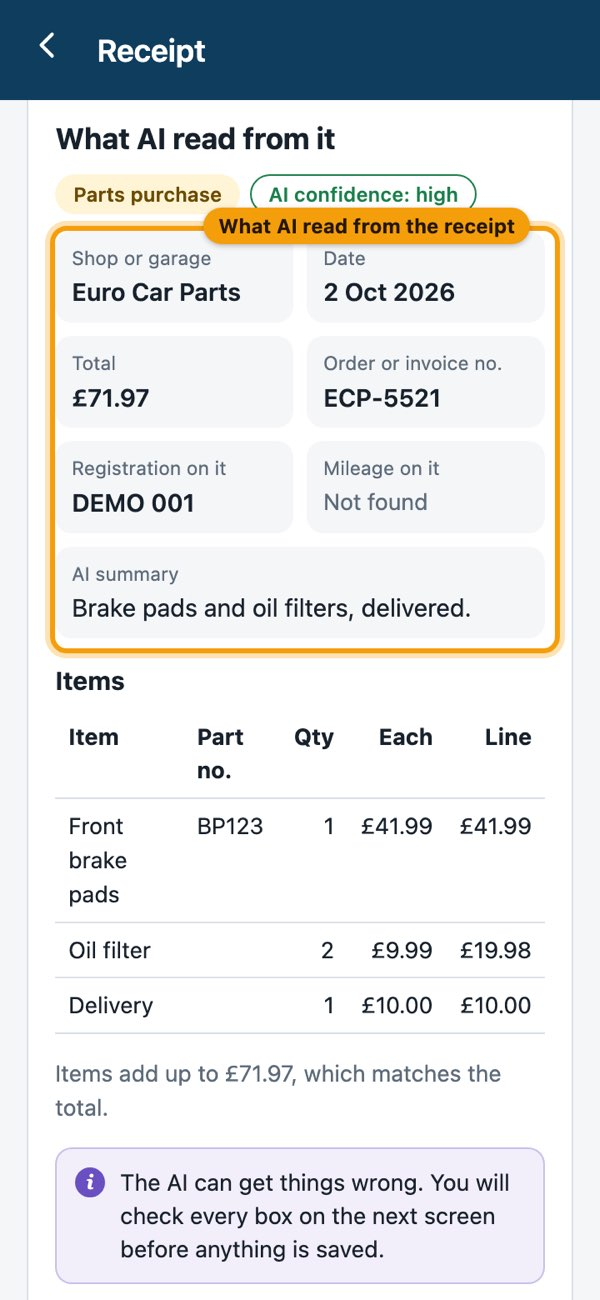
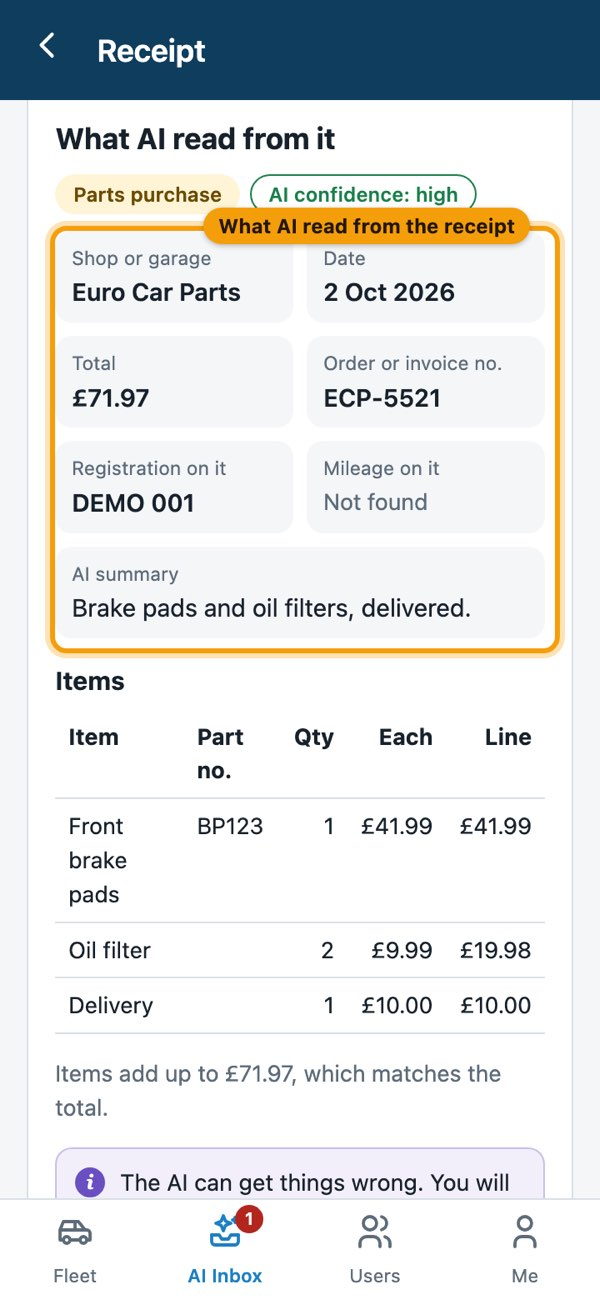
Add car matches Edit car: the same owners/custodians list, and the log book can be read from the AI box on both

Changed region(s): [[0.18, 0.9231, 0.93, 1.0], [0.09, 0.9231, 0.18, 1.0]]

diff --git a/web/views-cars.js b/web/views-cars.js
@@ -635,16 +635,17 @@
 
   // ---------- owner/custodian editor (one part of the car form) ----------
   // Admins tick any approved user. Everyone else can only tick or untick themselves.
-  function ownersEditor(people, users) {
+  // `tickMe`: a new car that is yours to start with (nothing is saved for it yet, so ticking counts as a change)
+  function ownersEditor(people, users, tickMe) {
     var me = FleetAuth.getUser();
     if (users) {
       var boxes = users.map(function (u) {
         var b = el('input', { type: 'checkbox' });
-        b.checked = people.owners.some(function (x) { return x.userId === u.id; });
+        b.checked = people.owners.some(function (x) { return x.userId === u.id; }) || (!!tickMe && u.id === me.id);
         return { user: u, box: b };
       });
       var ids = function () { return boxes.filter(function (x) { return x.box.checked; }).map(function (x) { return x.user.id; }).sort().join(','); };
-      var snap = ids();
+      var snap = people.owners.map(function (x) { return x.userId; }).sort().join(',');
       return {
         node: el('div', { class: 'stack' }, boxes.map(function (x) {
           return el('label', { class: 'check' }, [x.box, el('span', { text: x.user.name + ' (' + x.user.email + ')' })]);
@@ -659,7 +660,7 @@
     }
     var meBox = el('input', { type: 'checkbox' });
     var savedMe = people.owners.some(function (x) { return x.userId === me.id; });
-    meBox.checked = savedMe;
+    meBox.checked = savedMe || !!tickMe;
     var others = people.owners.filter(function (x) { return x.userId !== me.id; }).map(function (x) { return x.name; });
     return {
       node: el('div', {}, [
@@ -687,6 +688,12 @@
       if (e.code === 'not_found') notFound(root);
       else if (e.code !== 'unauthorized') root.replaceChildren(el('section', { class: 'card' }, [UI.notice('error', UI.errorText(e))]));
     });
+
+    // The people who can be ticked as owners: admins pick from every approved user; anyone else gets their own tick box
+    function loadUsers() {
+      if (!FleetAuth.isAdmin()) return Promise.resolve(null);
+      return FleetApi.call('listUsers').then(function (r) { return r.data.users.filter(function (u) { return u.status === 'Approved'; }); }).catch(function () { return null; });
+    }
 
     // Adding a car starts with a choice: read the log book with AI, or fill the form in yourself.
     function chooser() {
@@ -717,7 +724,7 @@
 
         // option 2: the form as it was
         var manual = el('button', { type: 'button', class: 'btn small secondary', text: 'Add it manually' });
-        manual.addEventListener('click', function () { build(null, [], { owners: [] }, null); });
+        manual.addEventListener('click', function () { loadUsers().then(function (users) { build(null, [], { owners: [] }, users); }); });
         kids.push(el('div', { class: 'choice' }, [
           el('h2', { text: '2. Add it yourself' }),
           el('p', { text: 'Manually with some optional AI assistance available for retrieving technical details like fluid specs.' }),
@@ -740,8 +747,10 @@
           return FleetApi.call('aiReadLogbook', { mime: att.mime, data: att.data }, { timeoutMs: 170000 }).then(function (r) { return { att: att, result: r.data }; });
         }).then(function (pre) {
           reading = false;
-          build(null, [], { owners: [] }, null, pre);
-          window.scrollTo(0, 0);
+          return loadUsers().then(function (users) {
+            build(null, [], { owners: [] }, users, pre);
+            window.scrollTo(0, 0);
+          });
         }).catch(function (e) {
           reading = false;
           return load(UI.notice('error', UI.errorText(e)));
@@ -895,8 +904,8 @@
         var bookBtn = null;
         var bookHint = null;
         var reading = false;
-        if (car) {
-          // editing a car: the log book can be read too, like when a car is added (it fills the empty boxes and is kept with the car's documents)
+        {
+          // the log book can be read from here when adding a car by hand and when editing one (it fills the empty boxes and is kept with the car's documents)
           bookHint = el('div', { class: 'hint', text: 'AI reads a clear PDF of the log book, fills the empty boxes and keeps the PDF with this car\'s documents. It may take up to a minute.' });
           bookBtn = Photos.fileButton('📄 Read the log book (PDF)', 'application/pdf', false, readBook);
           box.append(el('div', { class: 'ai-or', text: 'or' }), bookBtn, bookHint);
@@ -1025,7 +1034,7 @@
             editLogbook = got.att;
             setIfEmpty(f.vin, (got.result.details || {}).vin, 'VIN', []);
             apply(got.result);
-            status.append(el('div', { class: 'section-note', text: 'The log book PDF will be saved in this car\'s documents when you save your changes. Check every box AI filled in first.' }));
+            status.append(el('div', { class: 'section-note', text: 'The log book PDF will be saved in this car\'s documents when you ' + (car ? 'save your changes' : 'add the car') + '. Check every box AI filled in first.' }));
           }).catch(function (e) { status.replaceChildren(UI.notice('error', UI.errorText(e))); })
             .then(function () { reading = false; bookBtn.classList.remove('disabled'); refresh(); });
         }
@@ -1131,15 +1140,9 @@
       var ownerFields = [
         UI.field('Other owner/custodian', text('ownerOther', v.ownerOther, { maxlength: '80' }), 'Optional. If the owner/custodian is not a user of this app, e.g. a company or a relative.'),
       ];
-      var ownersEd = car ? ownersEditor(people, users) : null;
-      var iOwn = null; // a new car: say straight away if it is yours (ticked when you come from "Add a new car")
-      if (car) {
-        ownerFields.push(el('div', { class: 'field' }, [el('div', { class: 'field-label', text: 'Owners/Custodians using this app' }), ownersEd.node]));
-      } else {
-        iOwn = el('input', { type: 'checkbox' });
-        iOwn.checked = ctx.query.mine === '1';
-        ownerFields.push(el('label', { class: 'check' }, [iOwn, el('span', { text: 'I own or look after this car' })]));
-      }
+      // the same list when adding and when editing; a new car starts with you ticked if you came from "Add a new car"
+      var ownersEd = ownersEditor(people, users, !car && ctx.query.mine === '1');
+      ownerFields.push(el('div', { class: 'field' }, [el('div', { class: 'field-label', text: 'Owners/Custodians using this app' }), ownersEd.node]));
 
       var fluidsEd = fluidsEditor(fluids);
       if (prefill) fluidsEd.addSuggested((prefill.result.fluids || []).concat(prefill.result.bulbs || []));
@@ -1448,14 +1451,8 @@
         }).then(function (stop) {
           if (stop === 'stop') return 'stop';
           step = 'the owner/custodian';
-          if (car) {
-            if (!ownersEd.dirty()) return null;
-            return ownersEd.save(state.carId).then(function () { done.push('owner/custodian'); });
-          }
-          if (iOwn.checked && !state.markedMine) {
-            return FleetApi.call('setMyCarRole', { carId: state.carId, owner: true }).then(function () { state.markedMine = true; });
-          }
-          return null;
+          if (!ownersEd.dirty()) return null;
+          return ownersEd.save(state.carId).then(function () { done.push('owner/custodian'); });
         }).then(function (stop) {
           if (stop === 'stop') return 'stop';
           if (!photosChanged() || state.photoDone) return null;
@@ -1473,7 +1470,7 @@
           var book = prefill ? prefill.att : editLogbook;
           if (!book || state.logbookDone) return null;
           step = 'the log book';
-          return FleetApi.call('uploadCarDocument', { carId: state.carId, type: 'Logbook', note: prefill ? 'Read by AI when the vehicle was added' : 'Read by AI when the details were updated', mime: book.mime, data: book.data, filename: book.filename }, { timeoutMs: 240000 }).then(function () {
+          return FleetApi.call('uploadCarDocument', { carId: state.carId, type: 'Logbook', note: car ? 'Read by AI when the details were updated' : 'Read by AI when the vehicle was added', mime: book.mime, data: book.data, filename: book.filename }, { timeoutMs: 240000 }).then(function () {
             state.logbookDone = true;
             done.push('log book');
           }, function (e) {
